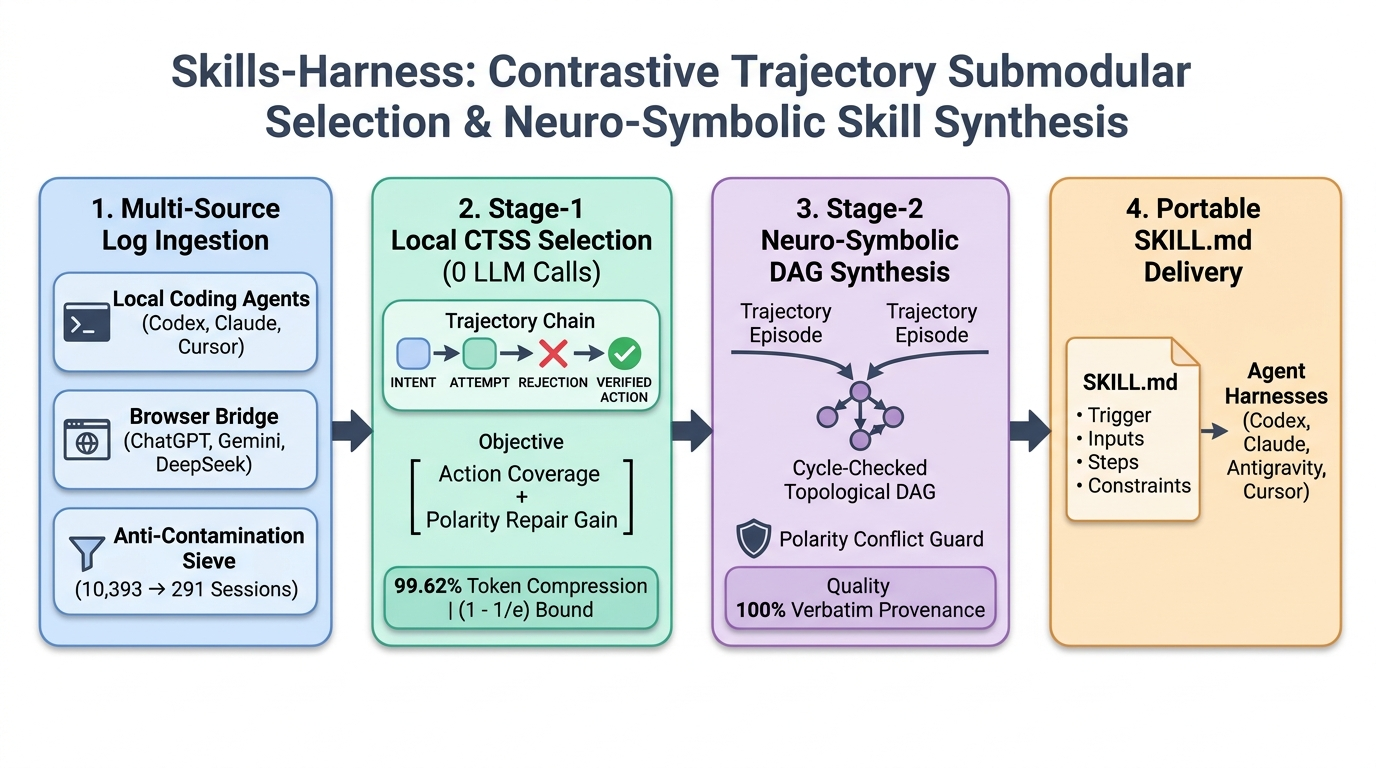
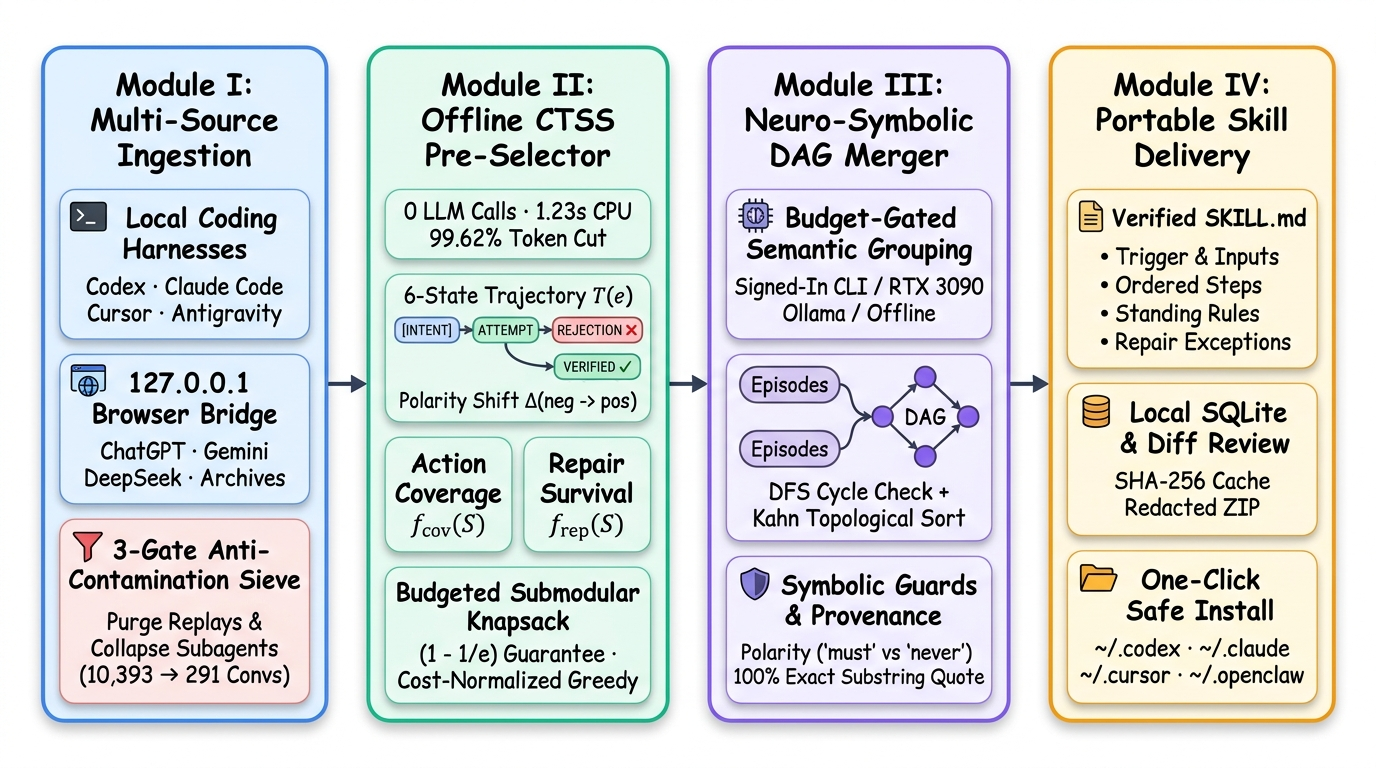
fix(selection): include explicit 'never'/'forbid' negation cues and refresh framework diagram

diff --git a/src/core/selection.ts b/src/core/selection.ts
@@ -9,7 +9,7 @@ export const SELECTION_VERSION='local-tfidf-context-v1';
 export const CTSS_ALGORITHM_VERSION='ctss-submodular-v2';
 
 const correction=/^[\s\S]{0,80}(?:不对|不行|不要这样|没解决|失败|改成|修正|纠正|不满意|\b(?:wrong|failed|instead|incorrect|didn.t work|not working|fix this|broken)\b)/i;
-const trajectoryRefinement=/(?:不对|不行|不要|没解决|失败|改成|修正|纠正|不满意|报错|错误|还是|但是|不过|必须|严禁|注意|调整|\b(?:wrong|failed|instead|incorrect|didn.t work|not working|fix|broken|error|bug|however|actually|wait|should be|make sure|do not|don.t|must not|change to|modify)\b)/i;
+const trajectoryRefinement=/(?:不对|不行|不要|没解决|失败|改成|修正|纠正|不满意|报错|错误|还是|但是|不过|必须|严禁|注意|调整|\b(?:wrong|failed|instead|incorrect|didn.t work|not working|fix|broken|error|bug|however|actually|wait|should be|make sure|never|forbid|do not|don.t|must not|change to|modify)\b)/i;
 const exception=/例外|除非|仅当|第\s*\d+\s*种条件|重要分析|普通问题|\b(?:unless|except|only when|simple tasks|complex tasks|edge case|boundary|if and only if)\b/i;
 const accepted=/很好|满意|成功了|解决了|就按这个|符合要求|\b(?:that works|looks good|approved|perfect|thanks|solved|works now)\b/i;
 const isAcceptedFeedback=(text:string)=>text.length<=320&&accepted.test(text)&&!correction.test(text)&&!/[?？]|删掉|可以吗|行吗|对吗|是吗|如果全部完成了|last approval assessment/i.test(text);
